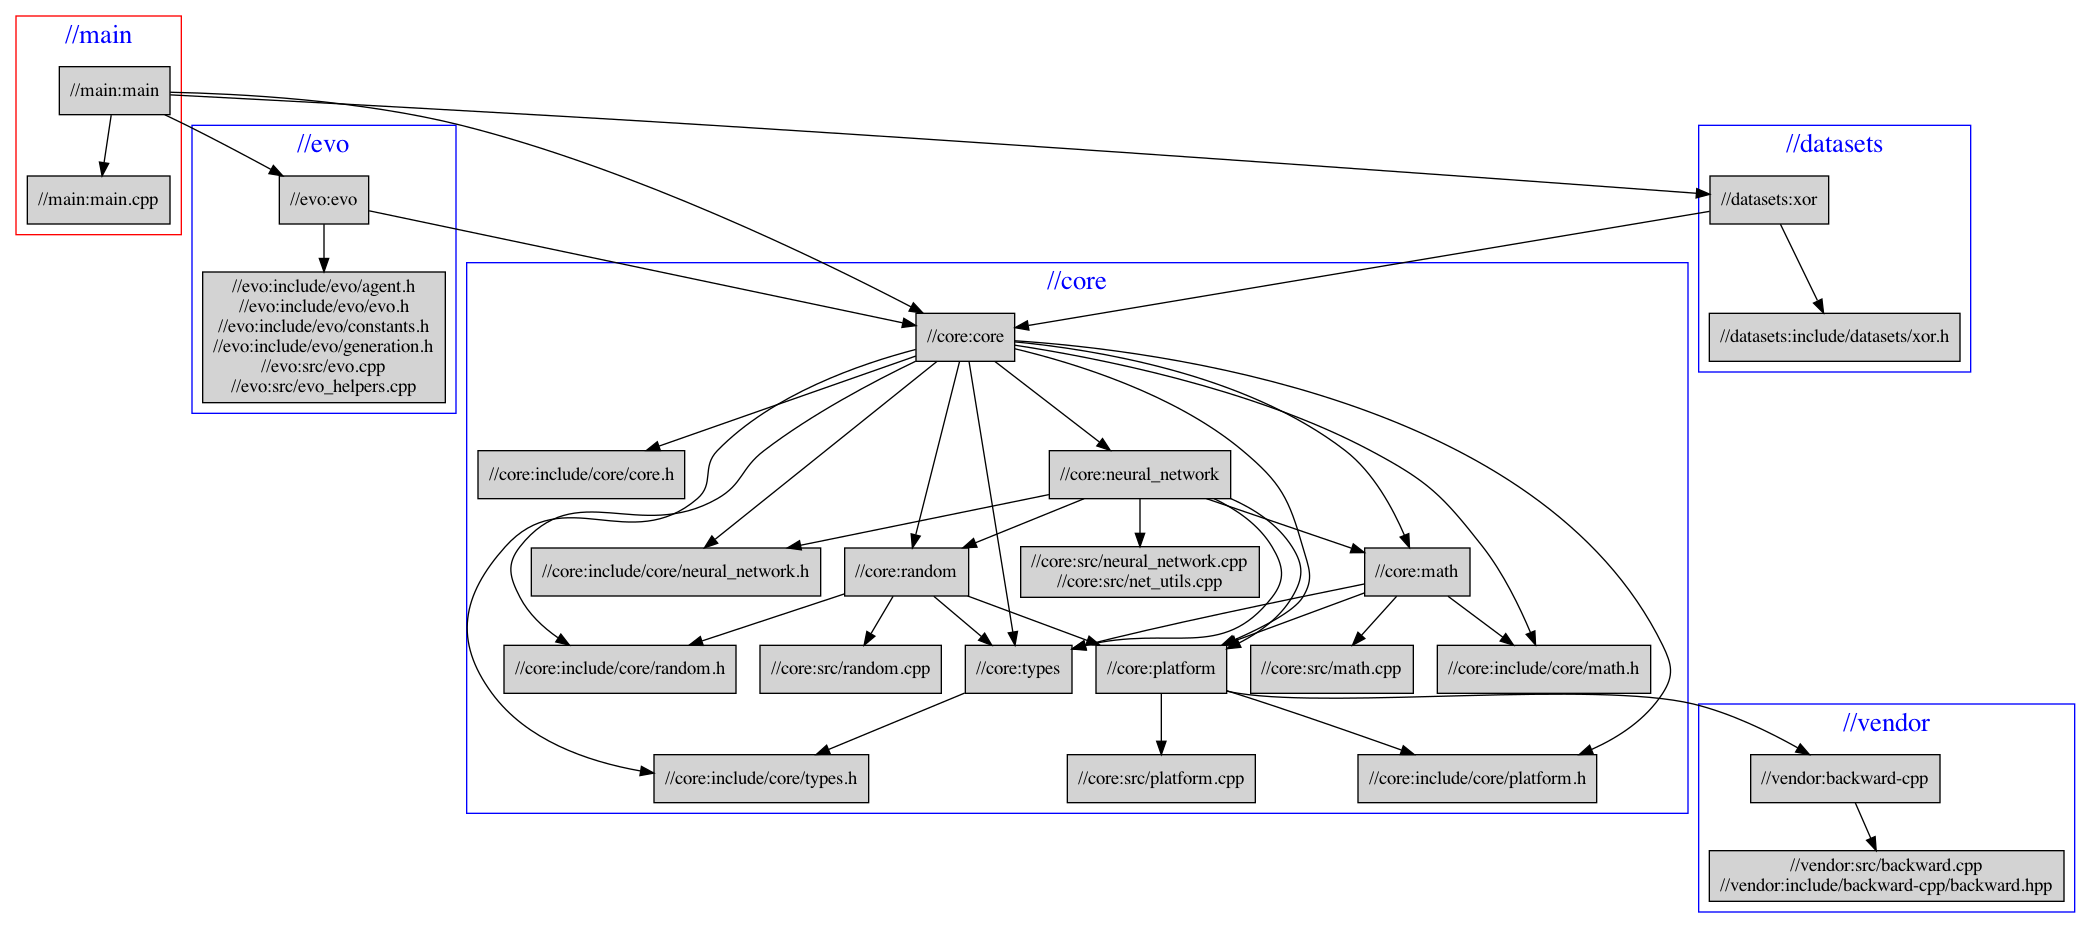
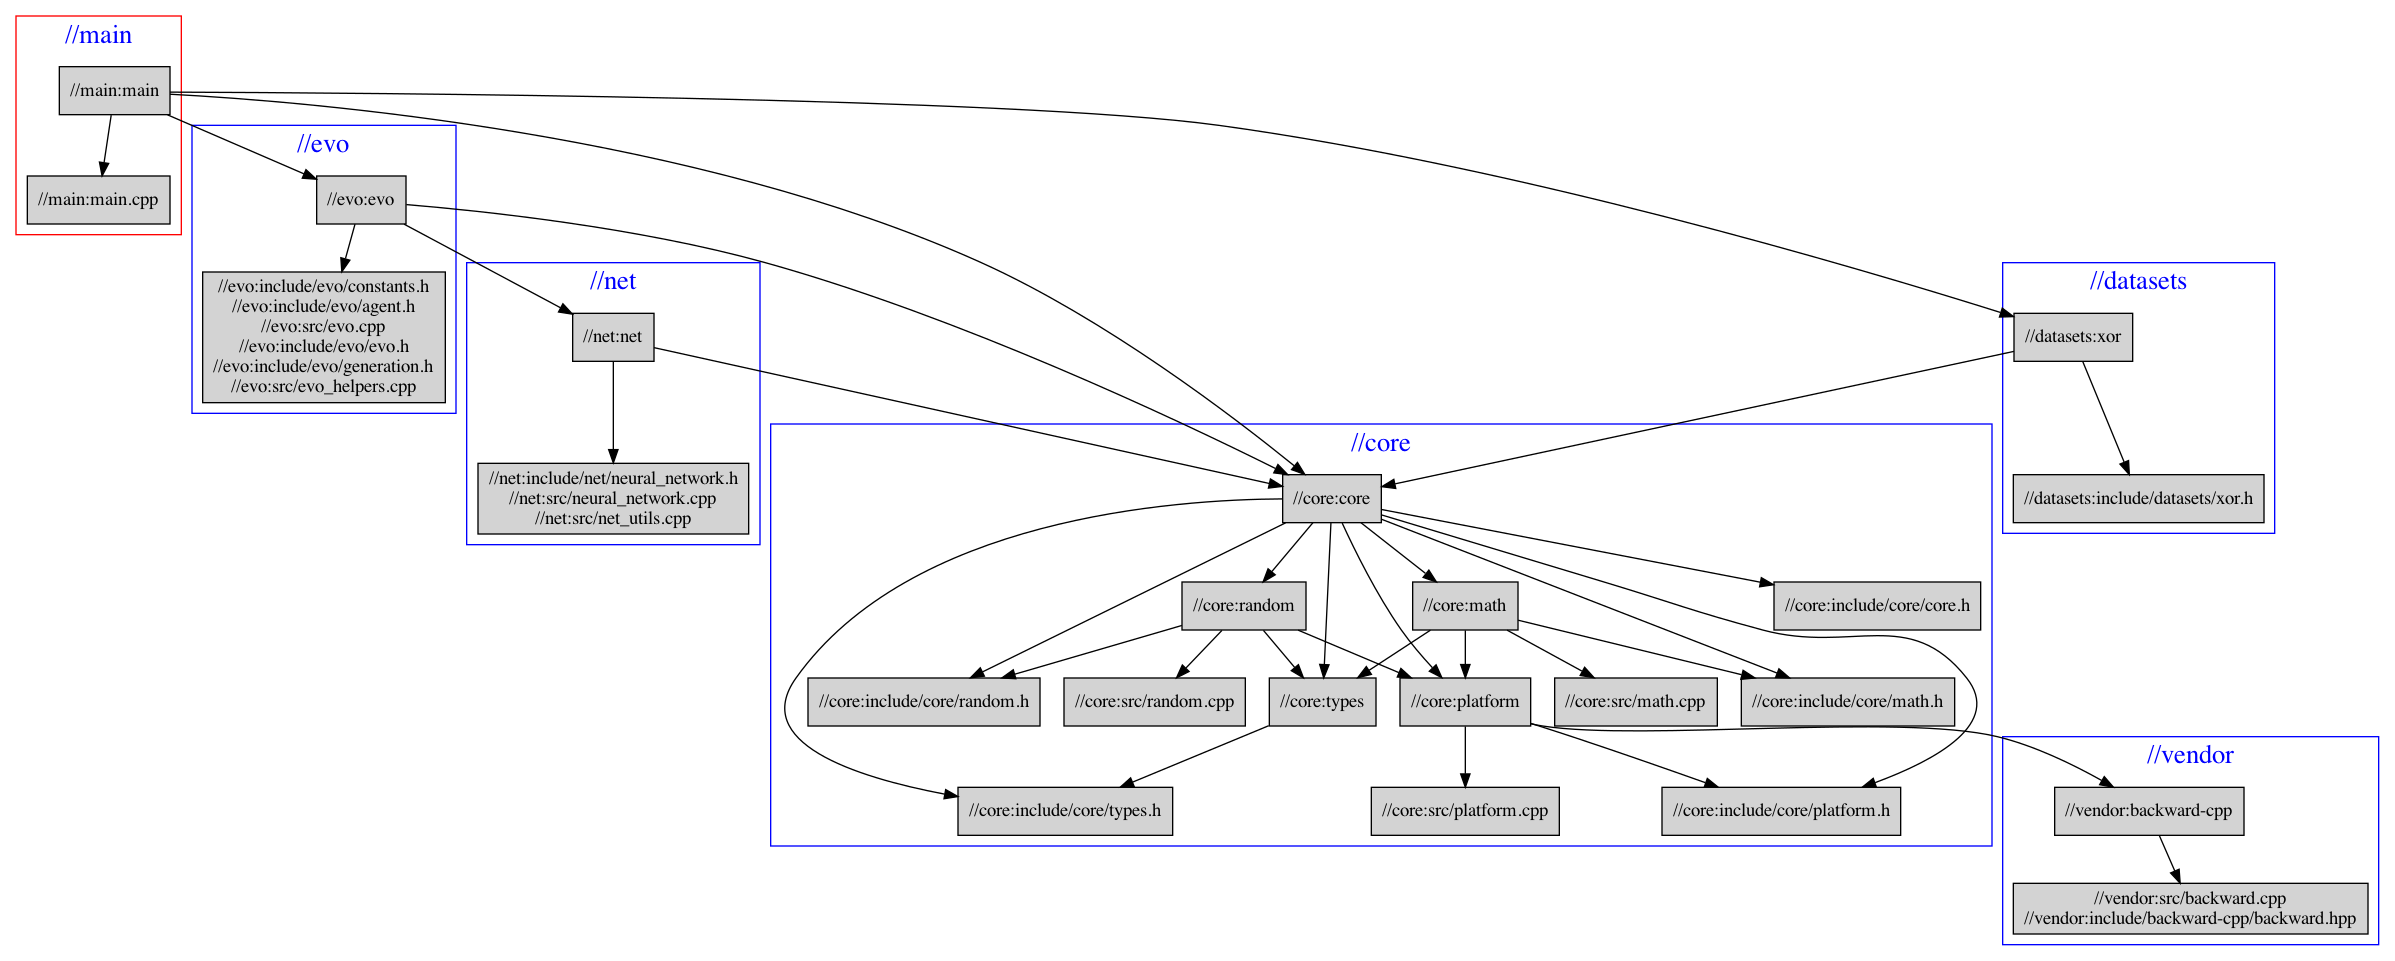
Moved neural networks to new net package

diff --git a/net/src/net_utils.cpp b/net/src/net_utils.cpp
@@ -1,9 +1,9 @@
-#include <core/neural_network.h>
 #include <core/platform.h>
+#include <net/neural_network.h>
 
 #include <algorithm>
 
-namespace core {
+namespace net {
 
 // Build a network with the provided layer sizes, where all weights and biases are set to 1.0.
 // Useful for testing purposes or cheaply initializing a blank network that can still propagate
@@ -43,4 +43,4 @@ NeuralNetwork BuildRandomNetwork(const std::vector<size_t>& layerSizes) {
     return net;
 }
 
-} // namespace core
+} // namespace net

diff --git a/net/include/net/neural_network.h b/net/include/net/neural_network.h
@@ -1,10 +1,11 @@
 #pragma once
 
-#include "types.h"
+#include <core/random.h>
+#include <core/types.h>
 
-#include "random.h"
+using namespace core;
 
-namespace core {
+namespace net {
 
 static RandIntDistribution IndexSelector(0, 10); // Used for choosing indices in vectors
 
@@ -50,4 +51,4 @@ class NeuralNetwork {
 NeuralNetwork BuildOnesNetwork(const std::vector<size_t>& layerSizes);
 NeuralNetwork BuildRandomNetwork(const std::vector<size_t>& layerSizes);
 
-} // namespace core
+} // namespace net

diff --git a/net/src/neural_network.cpp b/net/src/neural_network.cpp
@@ -1,8 +1,8 @@
 #include <core/math.h>
-#include <core/neural_network.h>
 #include <core/platform.h>
+#include <net/neural_network.h>
 
-namespace core {
+namespace net {
 
 // Apply the network to an input tuple, return the output tuple
 Tuple NeuralNetwork::compute(const Tuple& input) const {
@@ -134,4 +134,4 @@ void NeuralNetwork::MutateBiasesAndWeights(size_t* numBiasMutations, size_t* num
     // weights.\n";
 }
 
-} // namespace core
+} // namespace net

diff --git a/evo/include/evo/agent.h b/evo/include/evo/agent.h
@@ -1,17 +1,18 @@
 #pragma once
 
 #include <core/core.h>
+#include <net/neural_network.h>
 
 using namespace core;
 
 namespace evo {
 
 struct Agent {
-    NeuralNetwork brain;
+    net::NeuralNetwork brain;
     Number score = std::numeric_limits<Number>::infinity();
 
     Agent() {}
-    Agent(NeuralNetwork&& brain) : brain(brain) {}
+    Agent(net::NeuralNetwork&& brain) : brain(brain) {}
 };
 
 } // namespace evo

diff --git a/evo/include/evo/generation.h b/evo/include/evo/generation.h
@@ -39,7 +39,7 @@ struct Generation {
         agents.clear();
         for (size_t i = 0; i < numAgents; i++) {
             // agents.push_back(Agent(BuildOnesNetwork(defaultTopology)));
-            agents.push_back(Agent(BuildRandomNetwork(defaultTopology)));
+            agents.push_back(Agent(net::BuildRandomNetwork(defaultTopology)));
         }
     }
 };

diff --git a/net/test/test-net.cpp b/net/test/test-net.cpp
@@ -1,10 +1,11 @@
-#include "core/math.h"
-#include "core/neural_network.h"
 #include "gmock/gmock.h"
 #include "gtest/gtest.h"
+#include <core/math.h>
+#include <net/neural_network.h>
 
 using namespace testing;
 using namespace core;
+using namespace net;
 
 TEST(NeuralNetwork, topologyOnesNetwork) {
     NeuralNetwork net = BuildOnesNetwork({2, 3, 4, 1});

diff --git a/misc/countlines.py b/misc/countlines.py
@@ -1,8 +1,10 @@
+#!/usr/bin/env python2
+ 
 import os
 from collections import Counter
 
 def main():
-    folders = "core datasets evo main".split()
+    folders = "core datasets evo main misc".split()
     filters = "BUILD WORKSPACE cpp h cc hpp c py".split()
     filecount = Counter()
     linecount = Counter()

diff --git a/evo/include/evo/evo.h b/evo/include/evo/evo.h
@@ -1,9 +1,9 @@
 #pragma once
 
 #include <core/math.h>
-#include <core/neural_network.h>
 #include <core/platform.h>
 #include <evo/generation.h>
+#include <net/neural_network.h>
 
 #include <vector>
 

diff --git a/net/readme.md b/net/readme.md
@@ -1,0 +1,3 @@
+# genetic//net
+
+This package defines the basic neural network code.
